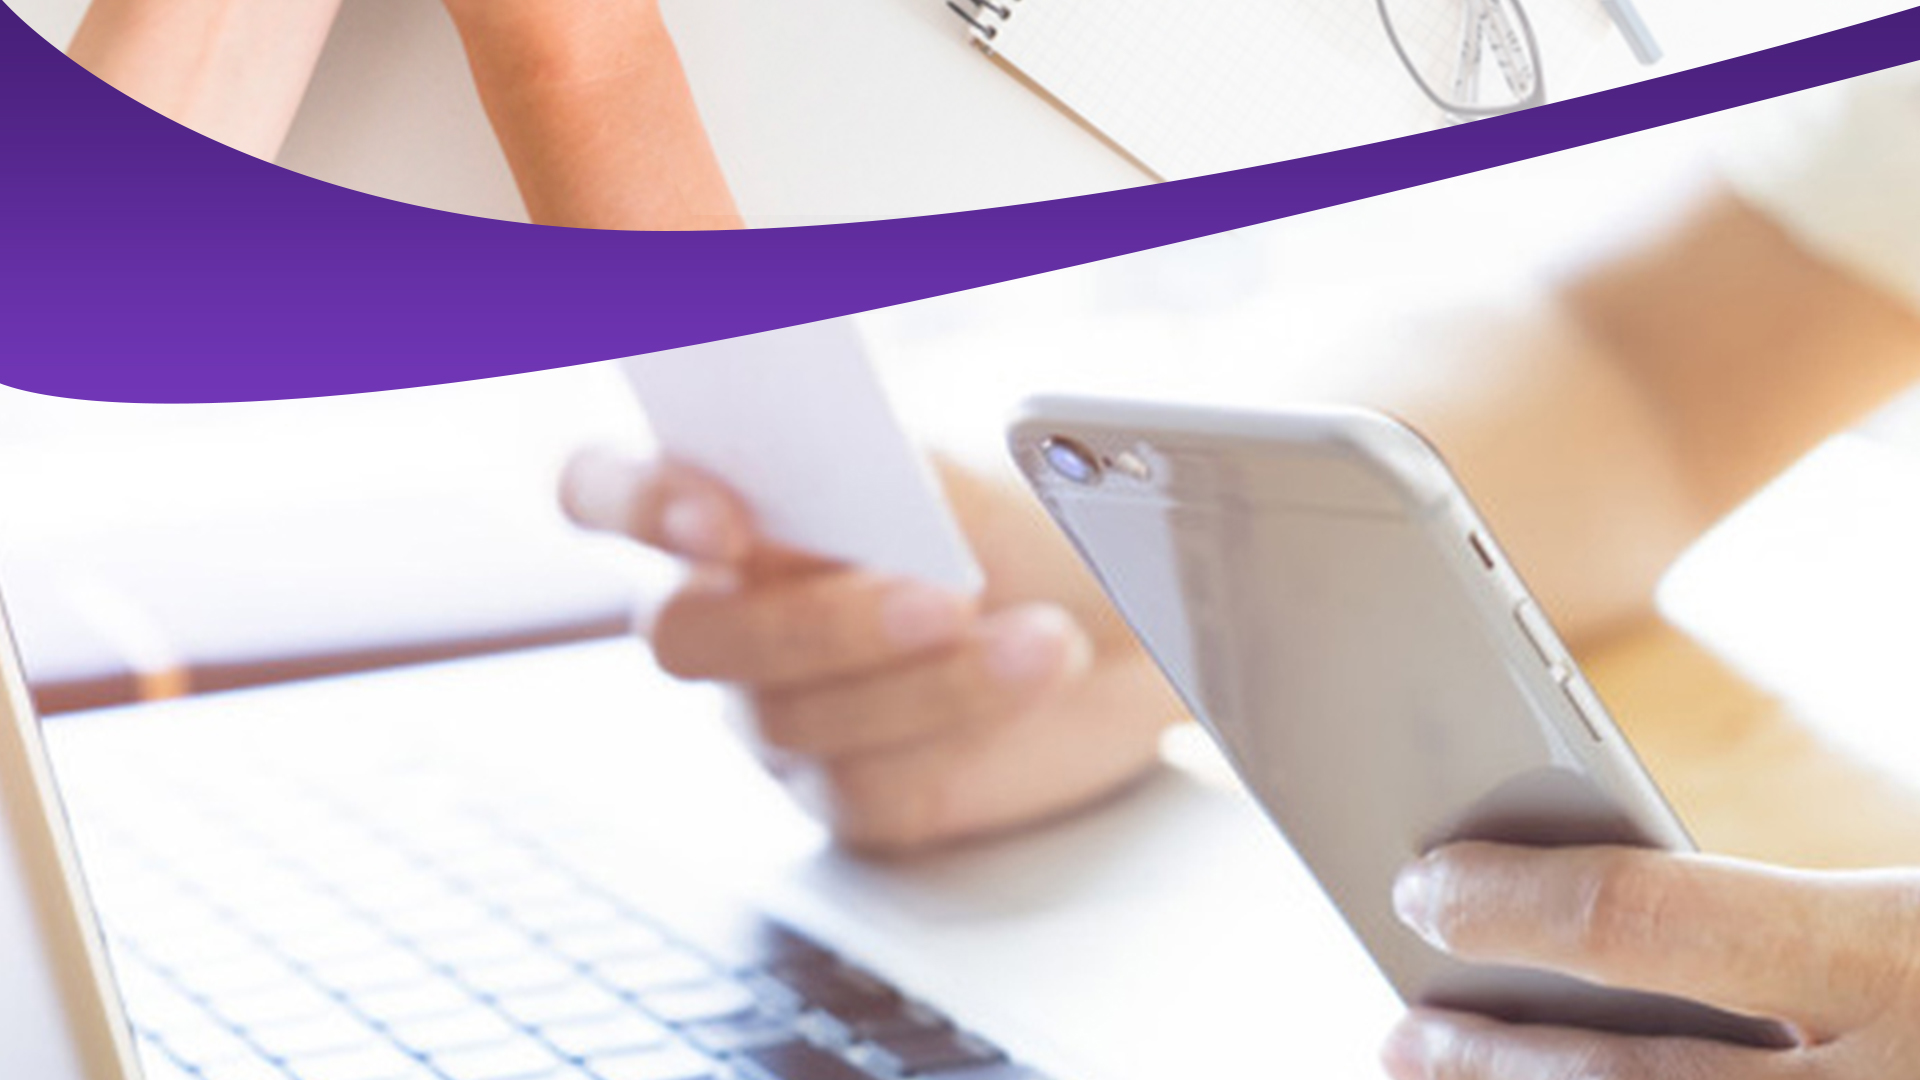
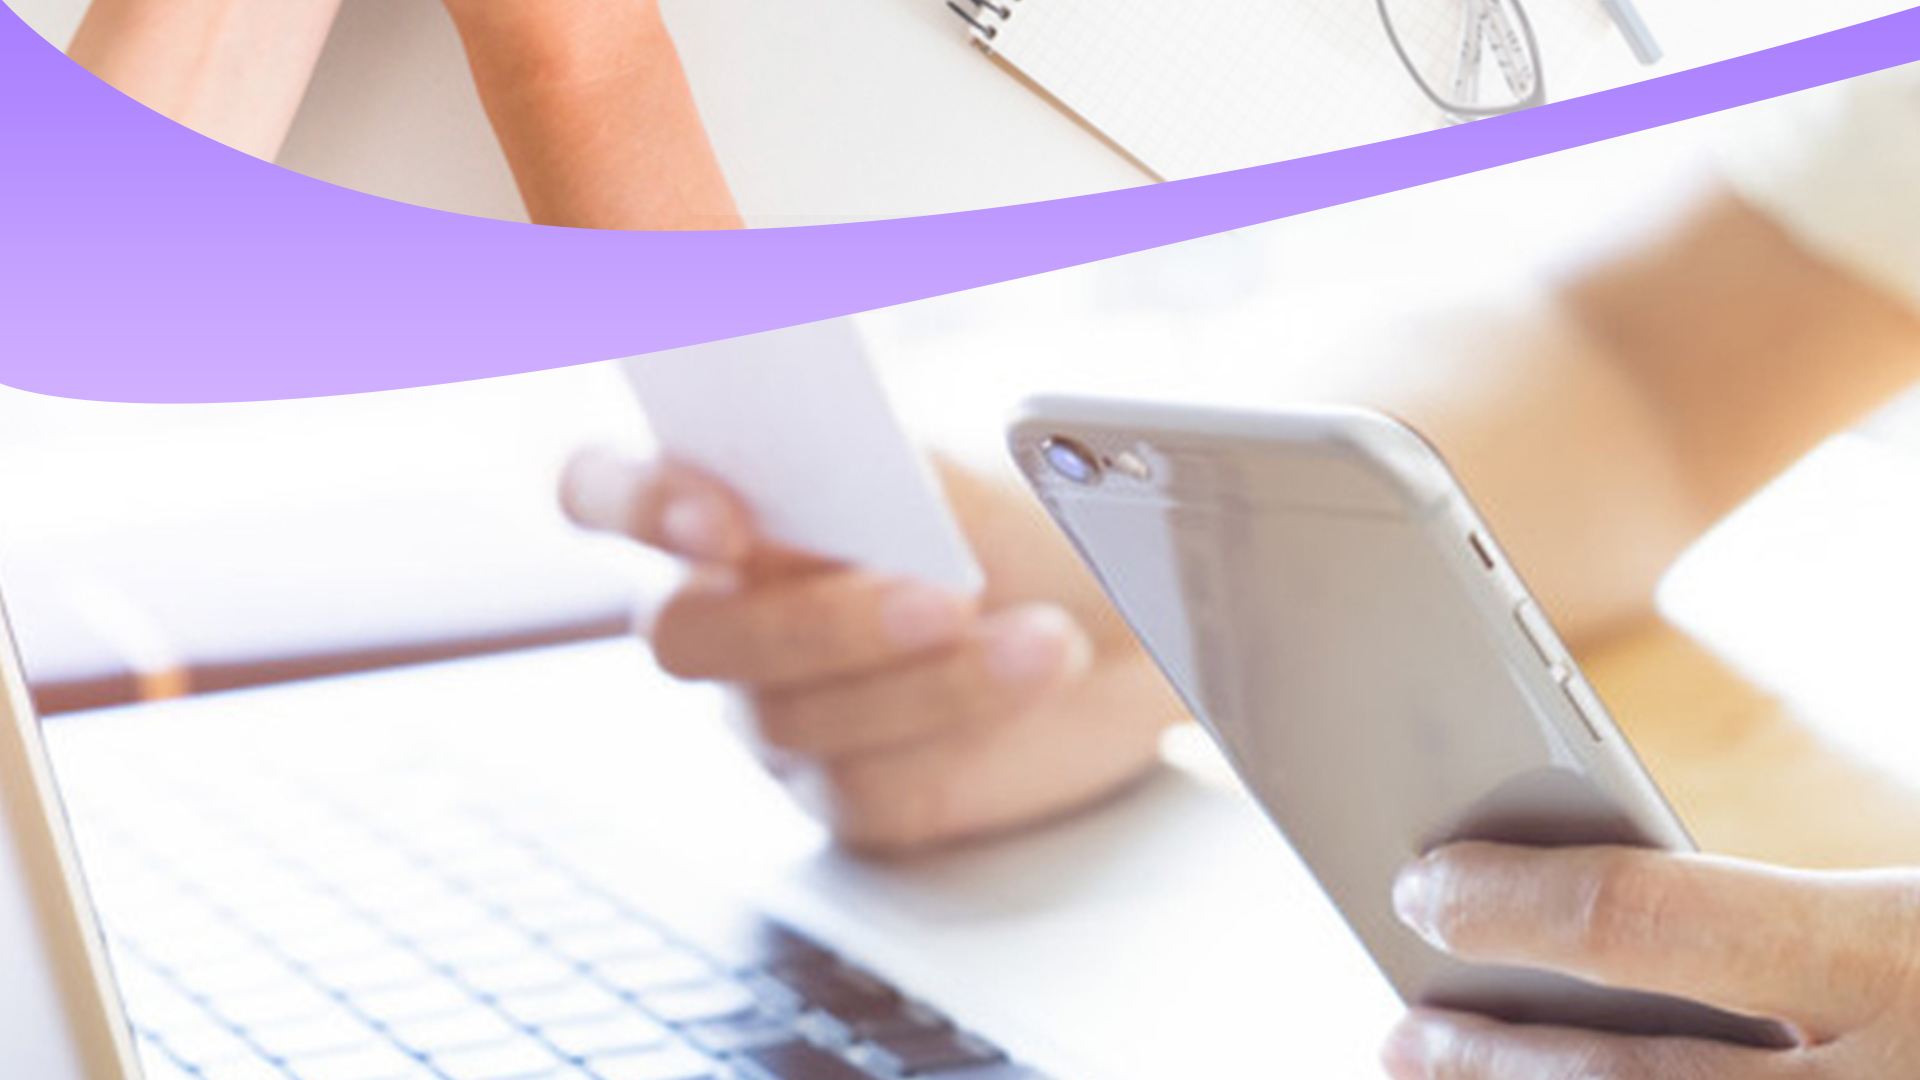
service page bg update

Changed region(s): [[0.0, 0.0, 1.0, 0.3972]]

diff --git a/styles.css b/styles.css
@@ -2632,7 +2632,7 @@ padding-top: 30rem;
     padding-top: 3em !important;
     color: #3a3a3b;
     text-align: right;
-    background-image: url("images/bg/balance_new.jpg") !important;
+    background-image: url("images/bg/bal2_new.jpg") !important;
     /*background-image:linear-gradient(to right, rgba(251,251,251,1) 5%, rgba(255,255,255,0) 100%), url("images/bg/balance_bg1.png") !important;*/
     background-size: cover;
     height: 45rem;
